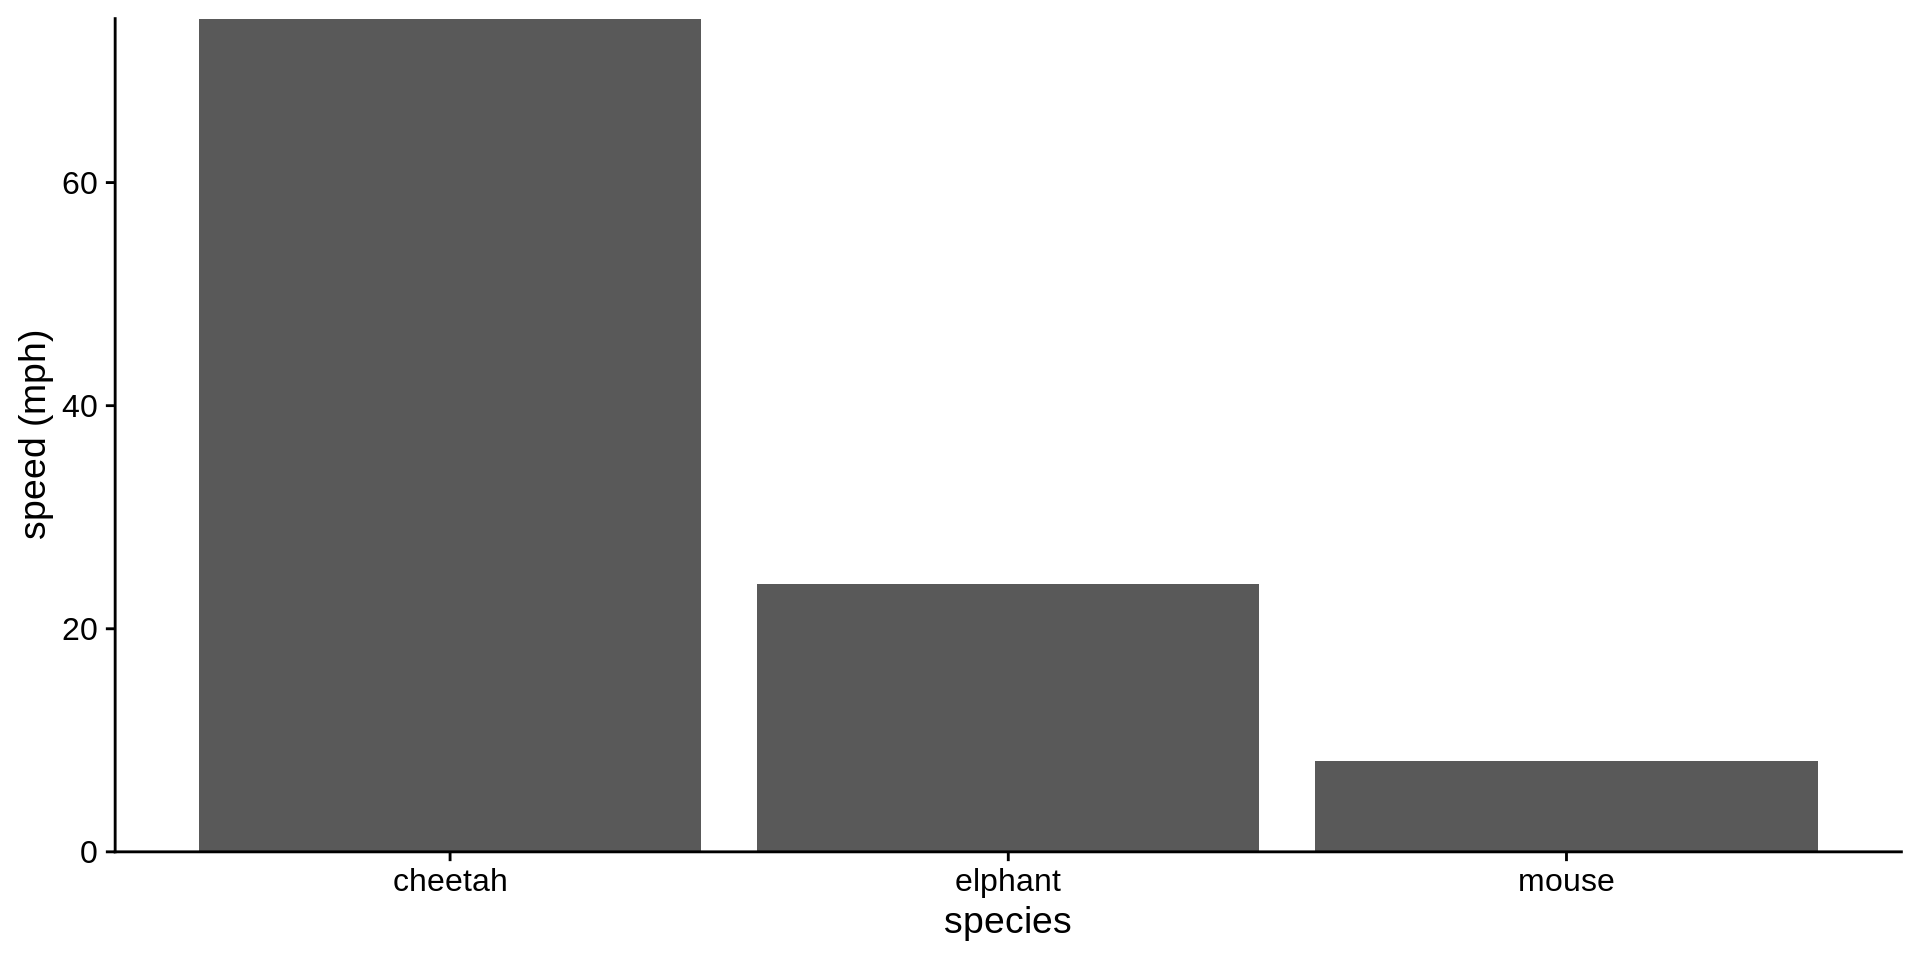
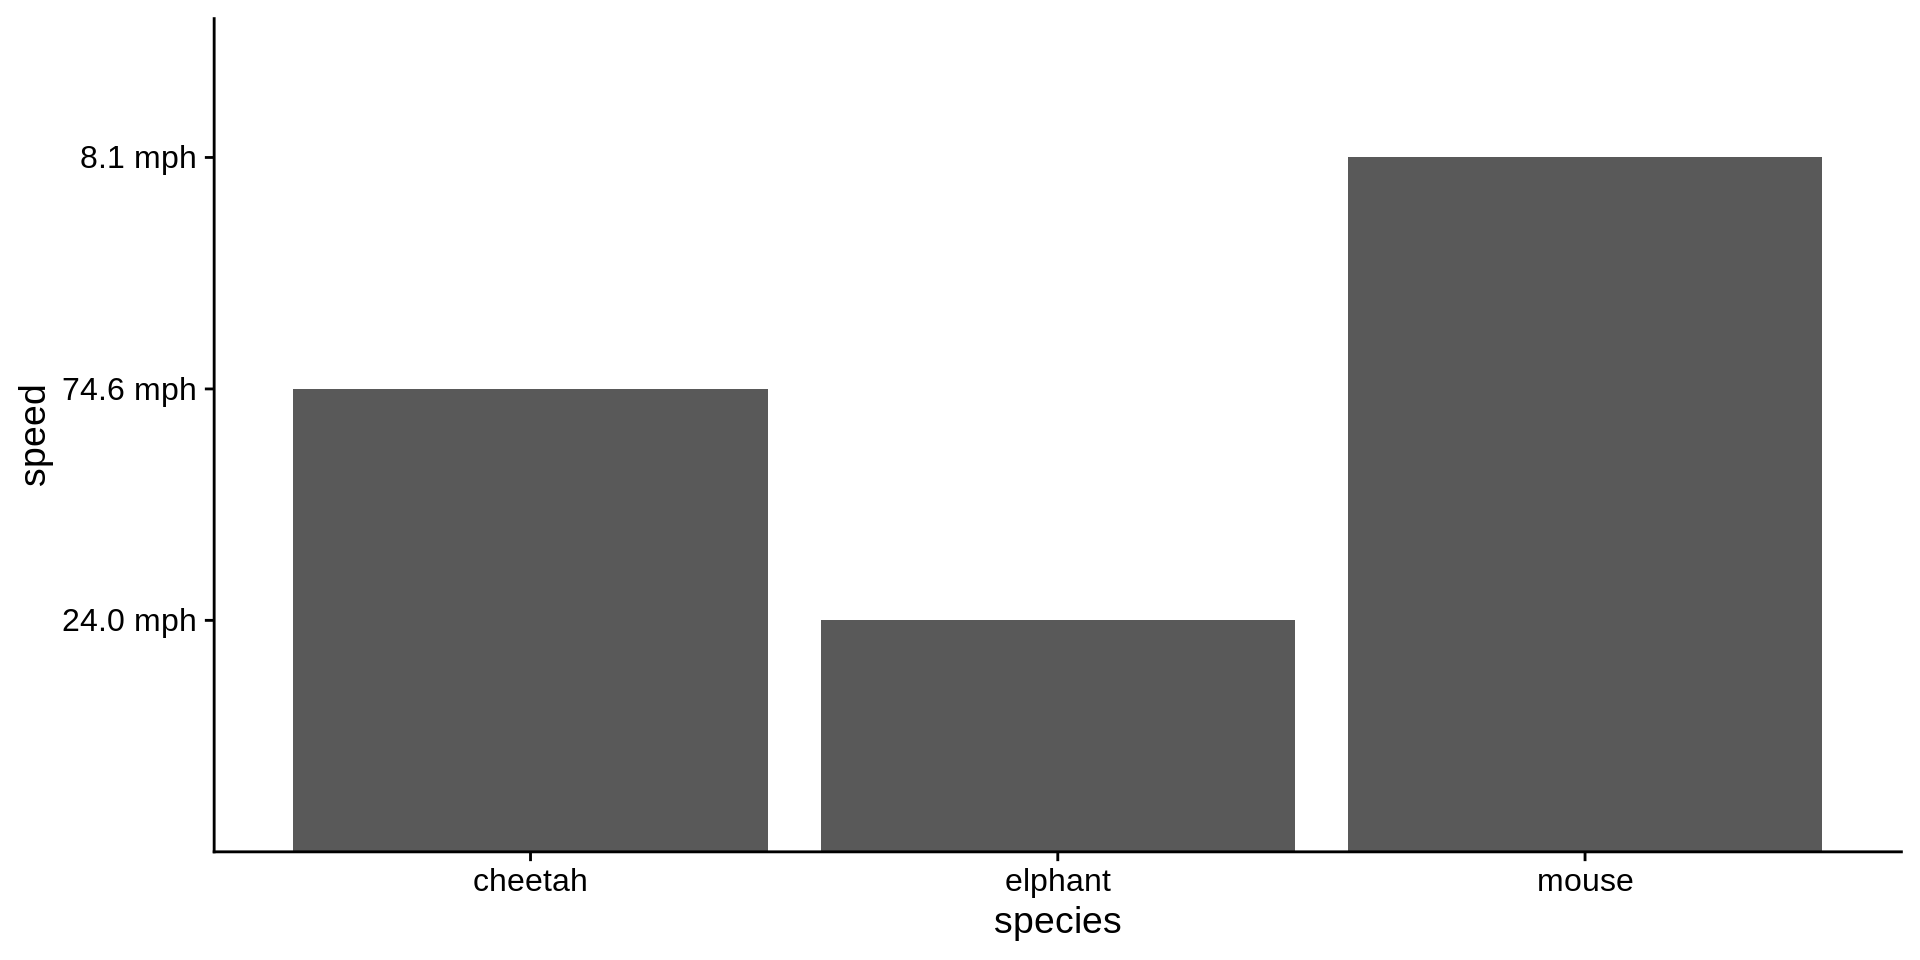
Built site for gh-pages

diff --git a/workshops/good_data_practises.html b/workshops/good_data_practises.html
@@ -409,6 +409,33 @@ David Jansen
 <section>
 <section id="content" class="title-slide slide level1 center">
 <h1>Content</h1>
+<div class="cell">
+<div class="cell-output cell-output-stdout">
+<pre><code># A tibble: 7 × 17
+  Package   Version Priority Depends Imports LinkingTo Suggests Enhances License
+  &lt;chr&gt;     &lt;chr&gt;   &lt;chr&gt;    &lt;chr&gt;   &lt;chr&gt;   &lt;chr&gt;     &lt;chr&gt;    &lt;chr&gt;    &lt;chr&gt;  
+1 docknitr  1.0.1   &lt;NA&gt;     knitr,…  &lt;NA&gt;   &lt;NA&gt;      "rmarkd… &lt;NA&gt;     MIT + …
+2 ezknitr   0.6.3   &lt;NA&gt;     R (&gt;= … "knitr… &lt;NA&gt;      "testth… &lt;NA&gt;     MIT + …
+3 knitr     1.46    &lt;NA&gt;     R (&gt;= … "evalu… &lt;NA&gt;      "bslib,… &lt;NA&gt;     GPL    
+4 knitrBoo… 1.0.3   &lt;NA&gt;     R (&gt;= … "knitr… &lt;NA&gt;      "testth… &lt;NA&gt;     MIT + …
+5 knitrdata 0.6.1   &lt;NA&gt;     R (&gt; 3… "knitr… &lt;NA&gt;      "gpg, r… &lt;NA&gt;     GPL-3  
+6 knitrPro… 1.1.0   &lt;NA&gt;     &lt;NA&gt;    "R6, R… &lt;NA&gt;      "knitr,… &lt;NA&gt;     MIT + …
+7 RTLknitr  1.0.0   &lt;NA&gt;     R (&gt;= … "knitr… &lt;NA&gt;       &lt;NA&gt;    &lt;NA&gt;     GPL (&gt;…
+# ℹ 8 more variables: License_is_FOSS &lt;chr&gt;, License_restricts_use &lt;chr&gt;,
+#   OS_type &lt;chr&gt;, Archs &lt;chr&gt;, MD5sum &lt;chr&gt;, NeedsCompilation &lt;chr&gt;,
+#   File &lt;chr&gt;, Repository &lt;chr&gt;</code></pre>
+</div>
+<div class="cell-output cell-output-stdout">
+<pre><code># A tibble: 2 × 17
+  Package   Version Priority Depends Imports LinkingTo Suggests Enhances License
+  &lt;chr&gt;     &lt;chr&gt;   &lt;chr&gt;    &lt;chr&gt;   &lt;chr&gt;   &lt;chr&gt;     &lt;chr&gt;    &lt;chr&gt;    &lt;chr&gt;  
+1 clickabl… 1.0     &lt;NA&gt;     R (&gt;= … "gridE… &lt;NA&gt;      knitr, … &lt;NA&gt;     GPL (&gt;…
+2 kableExt… 1.4.0   &lt;NA&gt;     R (&gt;= … "knitr… &lt;NA&gt;      testtha… &lt;NA&gt;     MIT + …
+# ℹ 8 more variables: License_is_FOSS &lt;chr&gt;, License_restricts_use &lt;chr&gt;,
+#   OS_type &lt;chr&gt;, Archs &lt;chr&gt;, MD5sum &lt;chr&gt;, NeedsCompilation &lt;chr&gt;,
+#   File &lt;chr&gt;, Repository &lt;chr&gt;</code></pre>
+</div>
+</div>
 <ul>
 <li><p>Data management</p></li>
 <li><p>Naming structures</p></li>
@@ -460,36 +487,6 @@ David Jansen
 <li>Try to have content of columns in correct data type and units</li>
 <li>An example why this <del>can</del> is important</li>
 </ul>
-<div class="cell">
-<div class="cell-output-display">
-<table>
-<thead>
-<tr class="header">
-<th style="text-align: left;">species</th>
-<th style="text-align: left;">speed</th>
-<th style="text-align: right;">speed_mph</th>
-</tr>
-</thead>
-<tbody>
-<tr class="odd">
-<td style="text-align: left;">elphant</td>
-<td style="text-align: left;">24.0 mph</td>
-<td style="text-align: right;">24.0</td>
-</tr>
-<tr class="even">
-<td style="text-align: left;">mouse</td>
-<td style="text-align: left;">8.1 mph</td>
-<td style="text-align: right;">8.1</td>
-</tr>
-<tr class="odd">
-<td style="text-align: left;">cheetah</td>
-<td style="text-align: left;">74.6 mph</td>
-<td style="text-align: right;">74.7</td>
-</tr>
-</tbody>
-</table>
-</div>
-</div>
 <div class="fragment">
 <div class="{,columns}">
 <div class="column" style="width:45%;">
@@ -497,7 +494,7 @@ David Jansen
 <div class="cell-output-display">
 <div>
 <figure>
-<p><img data-src="good_data_practises_files/figure-revealjs/unnamed-chunk-3-1.png" width="960"></p>
+<p><img data-src="good_data_practises_files/figure-revealjs/unnamed-chunk-4-1.png" width="960"></p>
 </figure>
 </div>
 </div>
@@ -508,7 +505,7 @@ David Jansen
 <div class="cell-output-display">
 <div>
 <figure>
-<p><img data-src="good_data_practises_files/figure-revealjs/unnamed-chunk-4-1.png" width="960"></p>
+<p><img data-src="good_data_practises_files/figure-revealjs/unnamed-chunk-5-1.png" width="960"></p>
 </figure>
 </div>
 </div>
@@ -562,10 +559,12 @@ David Jansen
 <li><p>Lyric: “House E used pesticides and should be excluded for this study”</p></li>
 </ul>
 <div class="cell">
-<div class="sourceCode cell-code" id="cb1"><pre class="sourceCode numberSource r number-lines code-with-copy"><code class="sourceCode r"><span id="cb1-1"><a></a> raw_data_wide <span class="sc">%&gt;%</span> </span>
-<span id="cb1-2"><a></a>  <span class="fu">select</span>(<span class="sc">-</span>House_E) <span class="sc">%&gt;%</span>    <span class="do">## The owners used pesticides during the trials</span></span>
-<span id="cb1-3"><a></a>      flextable<span class="sc">::</span><span class="fu">flextable</span>() <span class="sc">%&gt;%</span> </span>
-<span id="cb1-4"><a></a>      flextable<span class="sc">::</span><span class="fu">colformat_double</span>(<span class="at">digits =</span> <span class="dv">1</span>)</span></code><button title="Copy to Clipboard" class="code-copy-button"><i class="bi"></i></button></pre></div>
+<div class="sourceCode cell-code" id="cb3"><pre class="sourceCode numberSource r number-lines code-with-copy"><code class="sourceCode r"><span id="cb3-1"><a></a> raw_data_wide <span class="sc">%&gt;%</span> </span>
+<span id="cb3-2"><a></a>  <span class="fu">select</span>(<span class="sc">-</span>House_E) <span class="sc">%&gt;%</span>    <span class="do">## The owners used pesticides during the trials</span></span>
+<span id="cb3-3"><a></a>  knitr<span class="sc">::</span><span class="fu">kable</span>(<span class="at">digits =</span> <span class="dv">1</span>) <span class="sc">%&gt;%</span> </span>
+<span id="cb3-4"><a></a>  <span class="fu">kable_classic</span>(<span class="at">full_width =</span> F, <span class="at">html_font =</span> <span class="st">"Cambria"</span>)</span>
+<span id="cb3-5"><a></a>      <span class="co"># flextable::flextable() %&gt;% </span></span>
+<span id="cb3-6"><a></a>      <span class="co"># flextable::colformat_double(digits = 1)</span></span></code><button title="Copy to Clipboard" class="code-copy-button"><i class="bi"></i></button></pre></div>
 </div>
 </section>
 <section id="data-4-4" class="slide level2 smaller">
